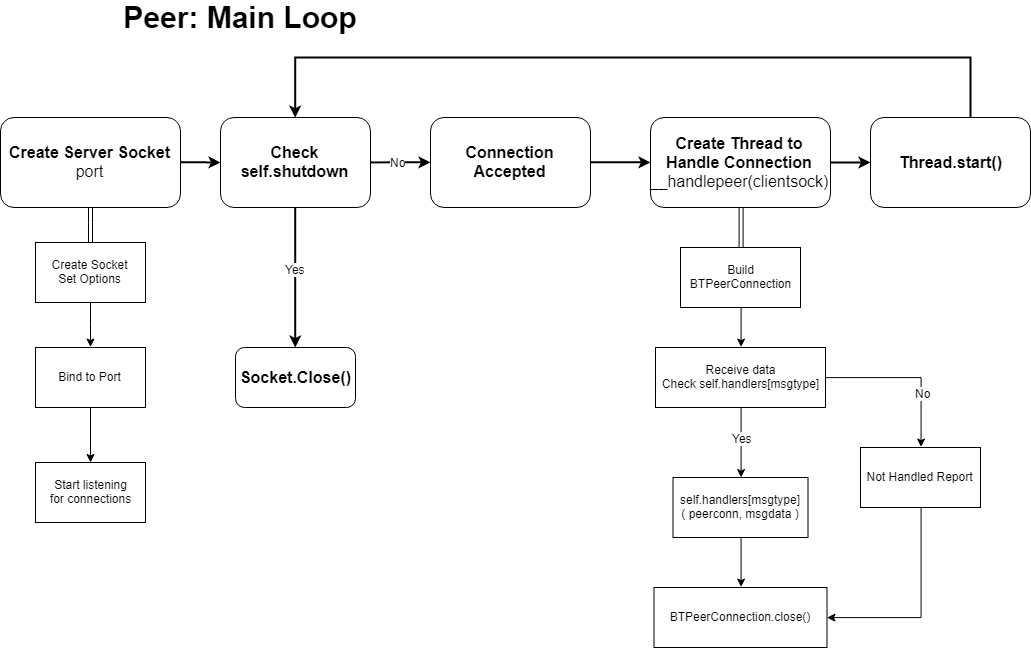
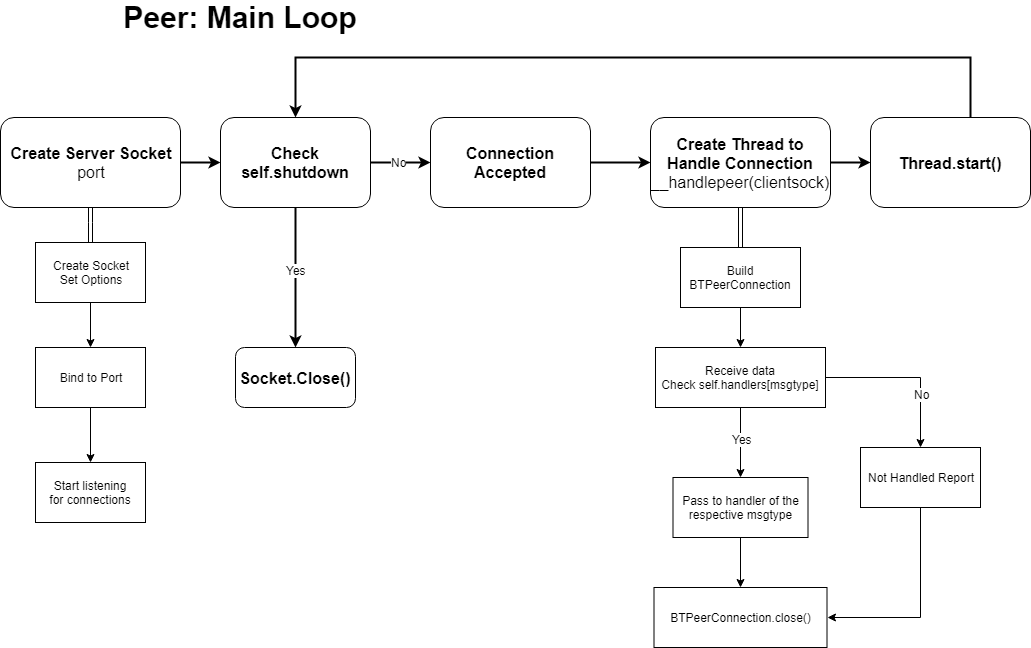
Update basic framework & graph description

diff --git a/PlayerPeer.py b/PlayerPeer.py
@@ -1,0 +1,176 @@
+from Peer import *
+
+
+#-----------------------------
+#  Define actual msgtype string
+#-----------------------------
+PEERNAME = "NAME"   # request a peer's canonical id
+LISTPEERS = "LIST"
+INSERTPEER = "JOIN"
+PEERQUIT = "QUIT"
+
+REPLY = "REPL"
+ERROR = "ERRO"
+
+# Assumption in this program:
+#   peer id's in this application are just "host:port" strings
+
+
+class PlayerPeer(Peer):
+	"""
+	A minigame player entity based on Peer class.
+
+	Initialize router & handler
+	"""
+	def __init__(self, maxpeers, serverport):
+		Peer.__init__(self, maxpeers, serverport)
+
+		self.addrouter(self.__router) 
+
+		handlers = {LISTPEERS : self.__handle_listpeers,
+				    INSERTPEER : self.__handle_insertpeer,
+				    PEERNAME: self.__handle_peername,
+				    PEERQUIT: self.__handle_quit
+				   }
+		for mt in handlers:
+		    self.addhandler(mt, handlers[mt])
+
+
+    def __router(self, peerid):
+    	"""
+		peerid: destination
+		decide which known peer msgs should be routed to, to reach(hopefully) the desired peer
+		return: next-peer-id, host, port
+		host, port: IP address of next-peer-id
+		"""
+		if peerid not in self.getpeerids():
+		    return (None, None, None)  #message can't be routed
+		else:
+		    rt = [peerid]
+		    rt.extend(self.peers[peerid])
+		    return rt
+
+
+ 	# precondition: may be a good idea to hold the lock before going
+    #               into this function
+    def buildpeers(self, host, port, hops=1):
+	""" buildpeers(host, port, hops) 
+	host, port: peer's address
+	Attempt to build the local peer list up to the limit stored by
+	self.maxpeers, using a simple depth-first search given an
+	initial host and port as starting point. The depth of the
+	search is limited by the hops parameter.
+	"""
+		if self.maxpeersreached() or not hops:
+		    return
+
+		peerid = None
+
+		self.__debug("Building peers from (%s,%s)" % (host,port))
+
+		try:
+		    _, peerid = self.connectandsend(host, port, PEERNAME, '')[0]
+
+		    self.__debug("contacted " + peerid)
+		    resp = self.connectandsend(host, port, INSERTPEER, 
+						'%s %s %d' % (self.myid, 
+							      self.serverhost, 
+							      self.serverport))[0]
+		    self.__debug(str(resp))
+		    if (resp[0] != REPLY) or (peerid in self.getpeerids()):
+				return
+
+		    self.addpeer(peerid, host, port)
+
+		    # do recursive depth first search to add more peers
+		    resp = self.connectandsend(host, port, LISTPEERS, '',
+						pid=peerid)
+		    if len(resp) > 1:
+				resp.reverse()
+				resp.pop()    # get rid of the first reply: REPL #ids
+				while len(resp):
+				    nextpid,host,port = resp.pop()[1].split()
+				    if nextpid != self.myid:
+						self.buildpeers(host, port, hops - 1)
+		except:
+		    if self.debug:
+				traceback.print_exc()
+		    self.removepeer(peerid)
+
+
+	#-----------------------
+	# Specific message handlers
+	#-----------------------------
+	def __handle_peername(self, peerconn, data):
+		""" Handles the NAME message type. Message data is not used. """
+		peerconn.senddata(REPLY, self.myid)
+
+    def __handle_listpeers(self, peerconn, data):
+		""" Handles the LISTPEERS message type. Message data is not used. """
+		self.peerlock.acquire()
+		try:
+		    self.__debug('Listing peers %d' % self.numberofpeers())
+		    peerconn.senddata(REPLY, '%d' % self.numberofpeers())
+		    for pid in self.getpeerids():
+				host,port = self.getpeer(pid)
+				peerconn.senddata(REPLY, '%s %s %d' % (pid, host, port))
+		finally:
+		    self.peerlock.release()
+
+
+    def __handle_insertpeer(self, peerconn, data):
+		""" 
+		Handles the INSERTPEER (join) message type. The message data
+		should be a string of the form, "peerid  host  port", where peer-id
+		is the canonical name of the peer that desires to be added to this
+		peer's list of peers, host and port are the necessary data to connect
+		to the peer.
+		"""
+		self.peerlock.acquire()
+		try:
+		    try:
+				peerid,host,port = data.split()
+
+				if self.maxpeersreached():
+				    self.__debug('maxpeers %d reached: connection terminating' 
+						  % self.maxpeers)
+				    peerconn.senddata(ERROR, 'Join: too many peers')
+				    return
+
+				# peerid = '%s:%s' % (host,port)
+				if peerid not in self.getpeerids() and peerid != self.myid:
+				    self.addpeer(peerid, host, port)
+				    self.__debug('added peer: %s' % peerid)
+				    peerconn.senddata(REPLY, 'Join: peer added: %s' % peerid)
+				else:
+				    peerconn.senddata(ERROR, 'Join: peer already inserted %s'
+						       % peerid)
+		    except:
+				self.__debug('invalid insert %s: %s' % (str(peerconn), data))
+				peerconn.senddata(ERROR, 'Join: incorrect arguments')
+		finally:
+		    self.peerlock.release()
+
+
+
+    def __handle_quit(self, peerconn, data):
+		""" 
+		Handles the QUIT message type. The message data should be in the
+		format of a string, "peer-id", where peer-id is the canonical
+		name of the peer that wishes to be unregistered from this
+		peer's directory.
+		"""
+		self.peerlock.acquire()
+		try:
+		    peerid = data.lstrip().rstrip()
+		    if peerid in self.getpeerids():
+				msg = 'Quit: peer removed: %s' % peerid 
+				self.__debug(msg)
+				peerconn.senddata(REPLY, msg)
+				self.removepeer(peerid)
+		    else:
+				msg = 'Quit: peer not found: %s' % peerid 
+				self.__debug(msg)
+				peerconn.senddata(ERROR, msg)
+		finally:
+		    self.peerlock.release()

diff --git a/Peer.py b/Peer.py
@@ -4,7 +4,7 @@ import socket
 import threading
 import time
 import traceback
-import PeerConnection
+from PeerConnection import *
 
 def btdebug( msg ):
     """ Prints a messsage to the screen with the name of the current thread """
@@ -40,7 +40,7 @@ Main function for a peer in a P2P network
 		self.debug = debug 
 		self.peers = {}  # list (dictionary/hash table) of known peers
 		self.shutdown = False  # used to stop the main loop
-		self.handlers = {} # [msgtype]( peerconn, msgdata)  how does this work???
+		self.handlers = {} # msgtype: function ( peerconn, msgdata)  
 		self.router = None  #Routing function to decide the peer to send msg
 
    	#-------------------------------------------------------------------------
@@ -231,8 +231,7 @@ Main function for a peer in a P2P network
 		""" 
 		Adds a peer name and host:port mapping to the known list of peers.
 		"""
-		if peerid not in self.peers and (self.maxpeers == 0 or
-						 len(self.peers) < self.maxpeers):
+		if peerid not in self.peers and (self.maxpeers == 0 or len(self.peers) < self.maxpeers):
 		    self.peers[ peerid ] = (host, int(port))
 		    return True
 		else:

diff --git a/PeerConnection.py b/PeerConnection.py
@@ -37,7 +37,7 @@ class PeerConnection:
 		try:
 		    msg = self.__makemsg( msgtype, msgdata )
 		    self.buffer.write( msg )
-		    self.buffer.flush()
+		    self.buffer.flush()  #send
 		except KeyboardInterrupt:
 		    raise
 		except:
